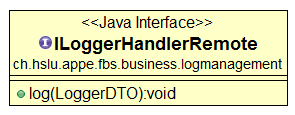
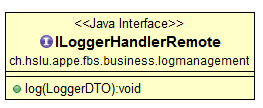
syyyyyyyyyyyyyyyysssssssssssssssssssssssssssssssssssssssssssssss

diff --git a/Dokumentation/SysSpec/Ziele/schnittstellen.tex b/Dokumentation/SysSpec/Ziele/schnittstellen.tex
@@ -61,68 +61,74 @@ Der Client ist stark von der Remote-Schicht der Business-Logik abhängig. Es ist
 \newline
 
 ------------------------------------------------------------------
-\textbf{IOrderHandlerRemonte}\\
+\textbf{IOrderHandlerRemote}\\
 Über die Methode 'getOrder' unter Angabe der gewünschten Bestellnr (int) wird vom Business Layer die Bestellung als 'OrderDTO' bereitgestellt. Für die Auflistung aller Bestellungen wird die Methode 'getOrderList' verwendet.\\
 Unter Angabe der Bestellnummer kann eine Bestellung annulliert werden (Methode cancelOrder(int)). Für das Ändern oder Speichern einer Bestellung werden zusätzlich Informationen (z.B. Kunden, bestellte Artikel) benötigt, weshalb ein OrderDTO benötigt wird.
 
 
 \begin{figure}[H]
 	\includegraphics[width=0.3\linewidth]{Images/IOrderHandlerRemonte}
-	\caption{Interface IOrderHandlerRemonte}
-	\label{fig:if-IOrderHandlerRemonte}
+	\caption{Interface IOrderHandlerRemote}
+	\label{fig:if-IOrderHandlerRemote}
 \end{figure}
 
-\textbf{ISupplyOrderHandlerRemonte}\\
+\textbf{ISupplyOrderHandlerRemote}\\
 Für die Auflistung aller Nachbestellungen wird die Methode 'getFullOrderList' verwendet und liefert ein SupplyOrderDTO zurück.\\
 Mittels der Methode 'updateSupplyFromArrical' wird mit der Übergabe eines 'SupplyOrderDTO' eine Nachbestellung ausgelöst. 
 \begin{figure}[H]
 	\includegraphics[width=0.6\linewidth]{Images/ISupplyOrderHandlerRemonte}
-	\caption{Interface ISupplyOrderHandlerRemonte}
-	\label{fig:if-ISupplyOrderHandler}
+	\caption{Interface ISupplyOrderHandlerRemote}
+	\label{fig:if-ISupplyOrderHandlerRemote}
 \end{figure}
 
 
-\textbf{IArticleHandlerRemonte}\\
+\textbf{IArticleHandlerRemote}\\
 Für die Auflistung aller möglicher Artikel wird die Methode 'getFullArticleList' verwendet und liefert alle Liste aller verfügbaren Artikel zurück. Alle Artikel einer spezifischen Bestellung kann über 'getOrderArticleList' abgefragt werden. Sie benötigt eine ordernr (int). Ein einzelner Artikel kann über 'getArticle' mit Übergabe einer articleNr von der Remonteschicht angefordert werden. Die genannte Anzahl sind nicht garantiert, sondern zeigt lediglich einen Momentanbestand. Das Transaktionsmanagement unterliegt den unteren Layers.
 \begin{figure}[H]
 	\includegraphics[width=0.6\linewidth]{Images/IArticleHandlerRemonte}
-	\caption{Interface IArticlerHandlerRemonte}
-	\label{fig:if-IArticleHandlerRemonte}
+	\caption{Interface IArticlerHandlerRemote}
+	\label{fig:if-IArticleHandlerRemote}
 \end{figure}
 
-\textbf{ICustomerHandlerRemonte}\\
+\textbf{ICustomerHandlerRemote}\\
 Beim ICustomerHandlerRemonte wird bis Release 1.0 keine erstellende oder mutierende Operationen angeboten. Konkret heisst dies, dass über 'getCustomerList' alle möglichen Kunden ausgewiesen werden und über eine Liste 'CustomerDTO' zurückgegeben. Es besteht mittels customerNr auch die Möglichkeit einen selektiven Kunden zu erhalten. Dies geschieht mit der Methode 'getCustomer'.
 Die Methode 'getCustomerStateOK' überprüft, ob der Kunden ausstehende Mahnungen hat und liefert einen boolean (true=OK / false=Mahnung) zurück.
 \begin{figure}[H]
 	\includegraphics[width=0.4\linewidth]{Images/ICustomerHandlerRemonte}
-	\caption{Interface ICustomerHandlerRemonte}
-	\label{fig:if-ICustomerHandler}
+	\caption{Interface ICustomerHandlerRemote}
+	\label{fig:if-ICustomerHandlerRemote}
 \end{figure}
 
-\textbf{IUserHandlerRemonte}\\
-Über das IUserHandlerRemonte-Interface kann Abgefragt werden ob ein User gültig ist und das richtige Passwort eingegeben wurde. Mit 'getUserRole' kann anhand des Username seine Rolle abgefragt werden, z.B. für die Auswahl der Ziel-Page. 
+\textbf{IUserHandlerRemote}\\
+Über das IUserHandlerRemote-Interface kann Abgefragt werden ob ein User gültig ist und das richtige Passwort eingegeben wurde. Mit 'getUserRole' kann anhand des Username seine Rolle abgefragt werden, z.B. für die Auswahl der Ziel-Page. 
 \begin{figure}[H]
 	\includegraphics[width=0.4\linewidth]{Images/IUserHandlerRemonte}
-	\caption{Interface IUserHandlerRemonte}
-	\label{fig:if-IUserHandlerRemonte}
+	\caption{Interface IUserHandlerRemote}
+	\label{fig:if-IUserHandlerRemote}
 \end{figure}
 
 
-\textbf{ISessionHandlerRemonte}\\
-Die Schnittstelle 'ISessionHandlerRemonte' überprüft, ob der User die Berechtigungen für den gewünschten Ziel-Context hat oder nicht. Bei jedem Pageaufruf, wird die Überprüfung für jede Page (LoginPage ausgenommen) vorgenommen.
+\textbf{ISessionHandlerRemote}\\
+Die Schnittstelle 'ISessionHandlerRemote' überprüft, ob der User die Berechtigungen für den gewünschten Ziel-Context hat oder nicht. Bei jedem Pageaufruf, wird die Überprüfung für jede Page (LoginPage ausgenommen) vorgenommen.
 \begin{figure}[H]
 	\includegraphics[width=0.5\linewidth]{Images/ISessionHandlerRemonte}
-	\caption{Interface ISessionHandlerRemonte}
-	\label{fig:if-ISessionHandlerRemonte}
+	\caption{Interface ISessionHandlerRemote}
+	\label{fig:if-ISessionHandlerRemote}
 \end{figure}
 
-\textbf{ILoggerHandlerRemonte}\\
-Das ILoggerHandlerRemonte-Interface bietet die möglichkeit anhand eines LogerDTO eine LogMessage zu übergeben. Die LogLevels werden in der unteren Schicht bestimmt. Es wird ein Default wert festgelegt für alle Lognachrichten vom Clint Layer.
+\textbf{ILoggerHandlerRemote}\\
+Das ILoggerHandlerRemote-Interface bietet die möglichkeit anhand eines LogerDTO eine LogMessage zu übergeben. Die LogLevels werden in der unteren Schicht bestimmt. Es wird ein Default wert festgelegt für alle Log-Nachrichten vom Clint Layer.
 \begin{figure}[H]
 	\includegraphics[width=0.5\linewidth]{Images/ILoggerHandlerRemonte}
-	\caption{Interface ILoggerHandlerRemonte}
-	\label{fig:if-ILoggerHandler}
+	\caption{Interface ILoggerHandlerRemote}
+	\label{fig:if-ILoggerHandlerRemote}
 \end{figure}
+
+
+
+
+
+
 
 
 \subsubsection{Remote <-> Business}
